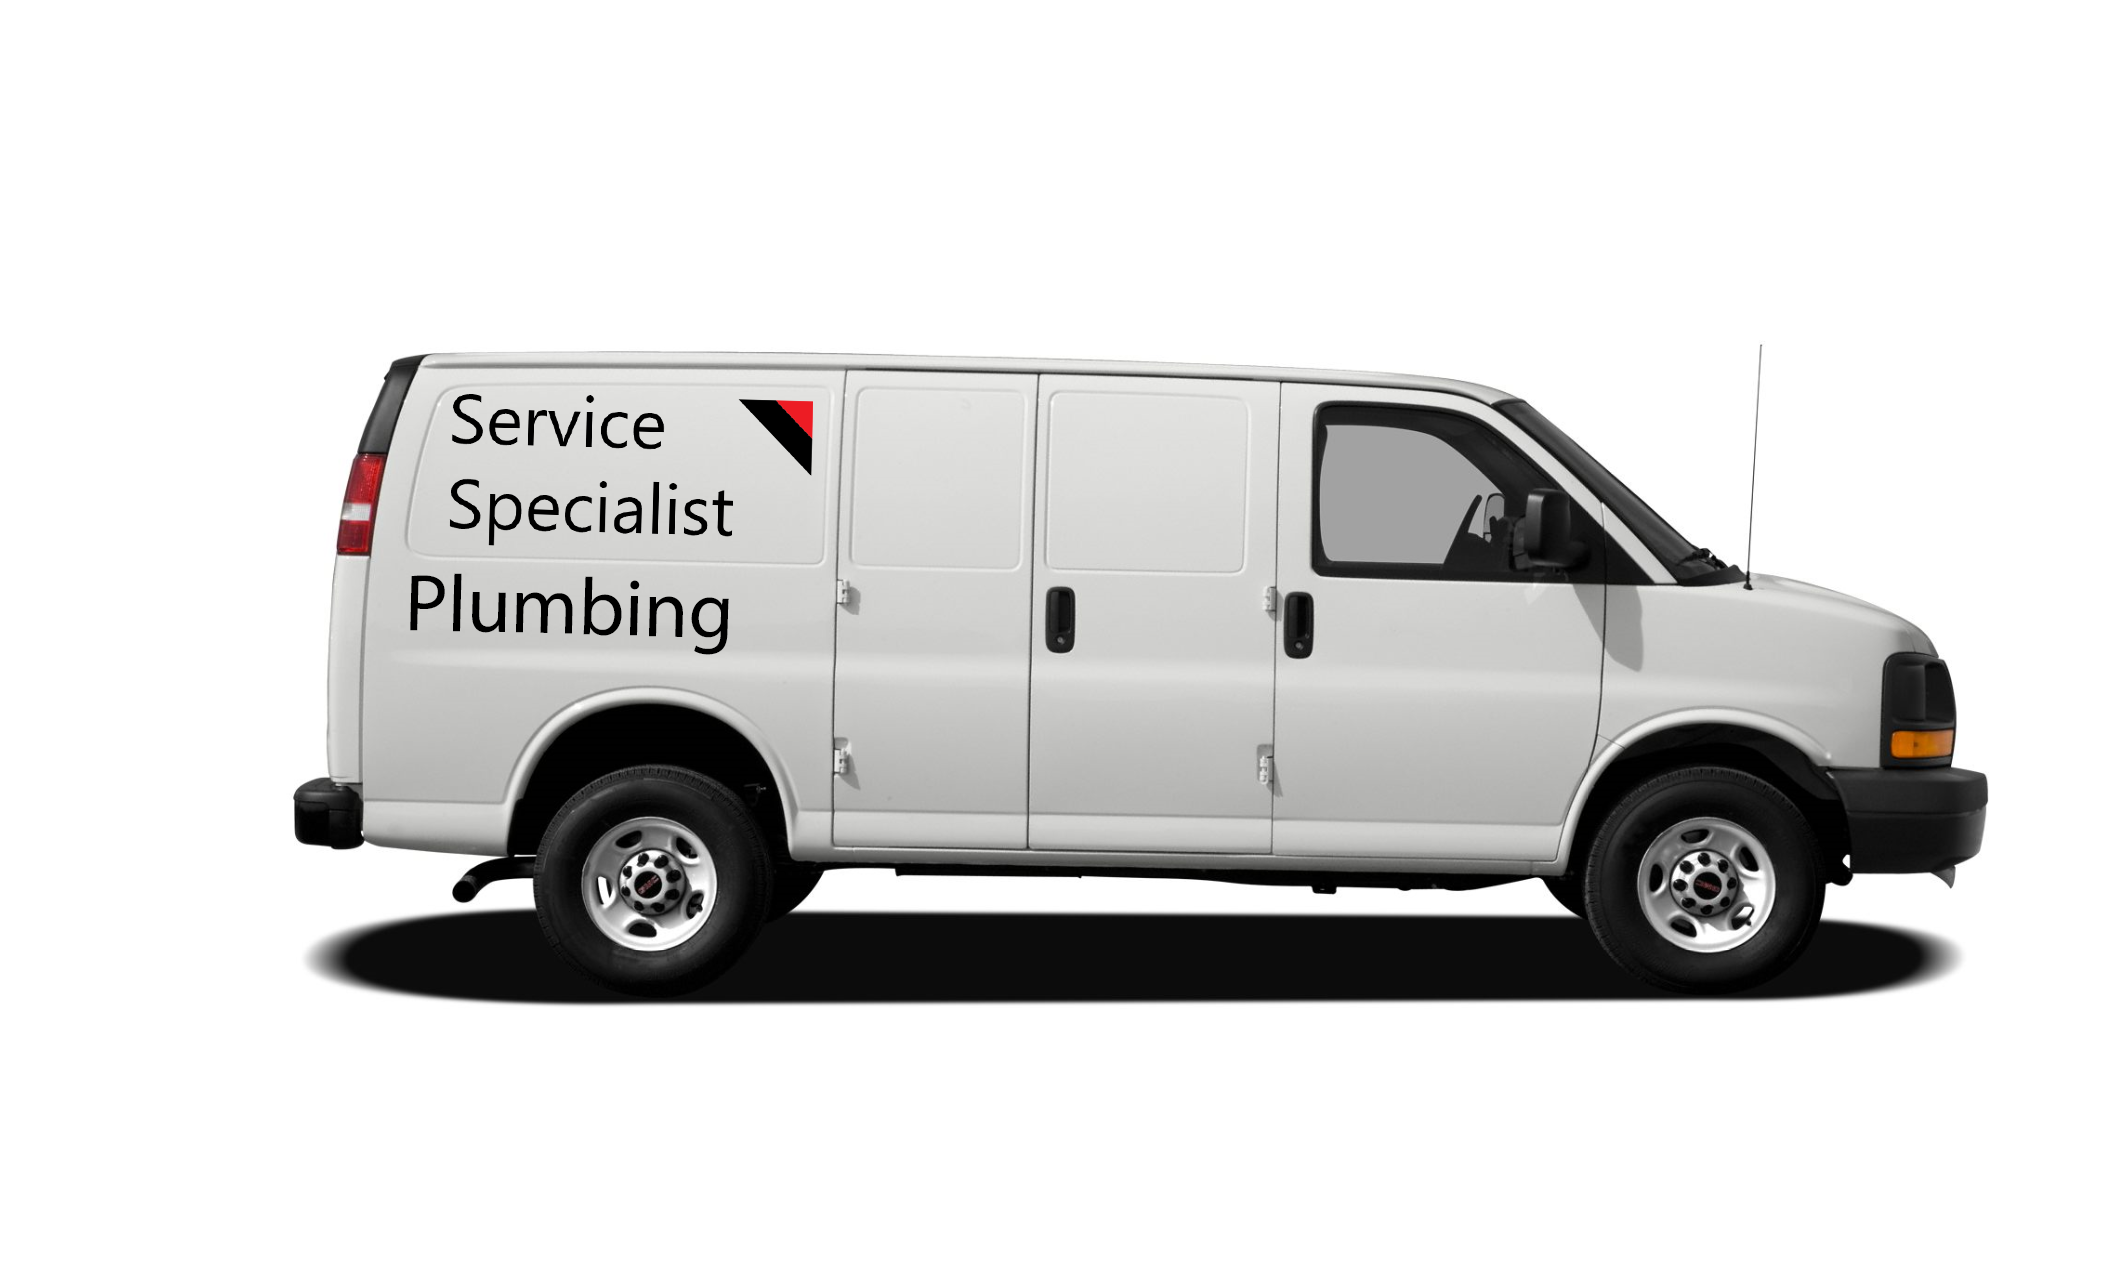
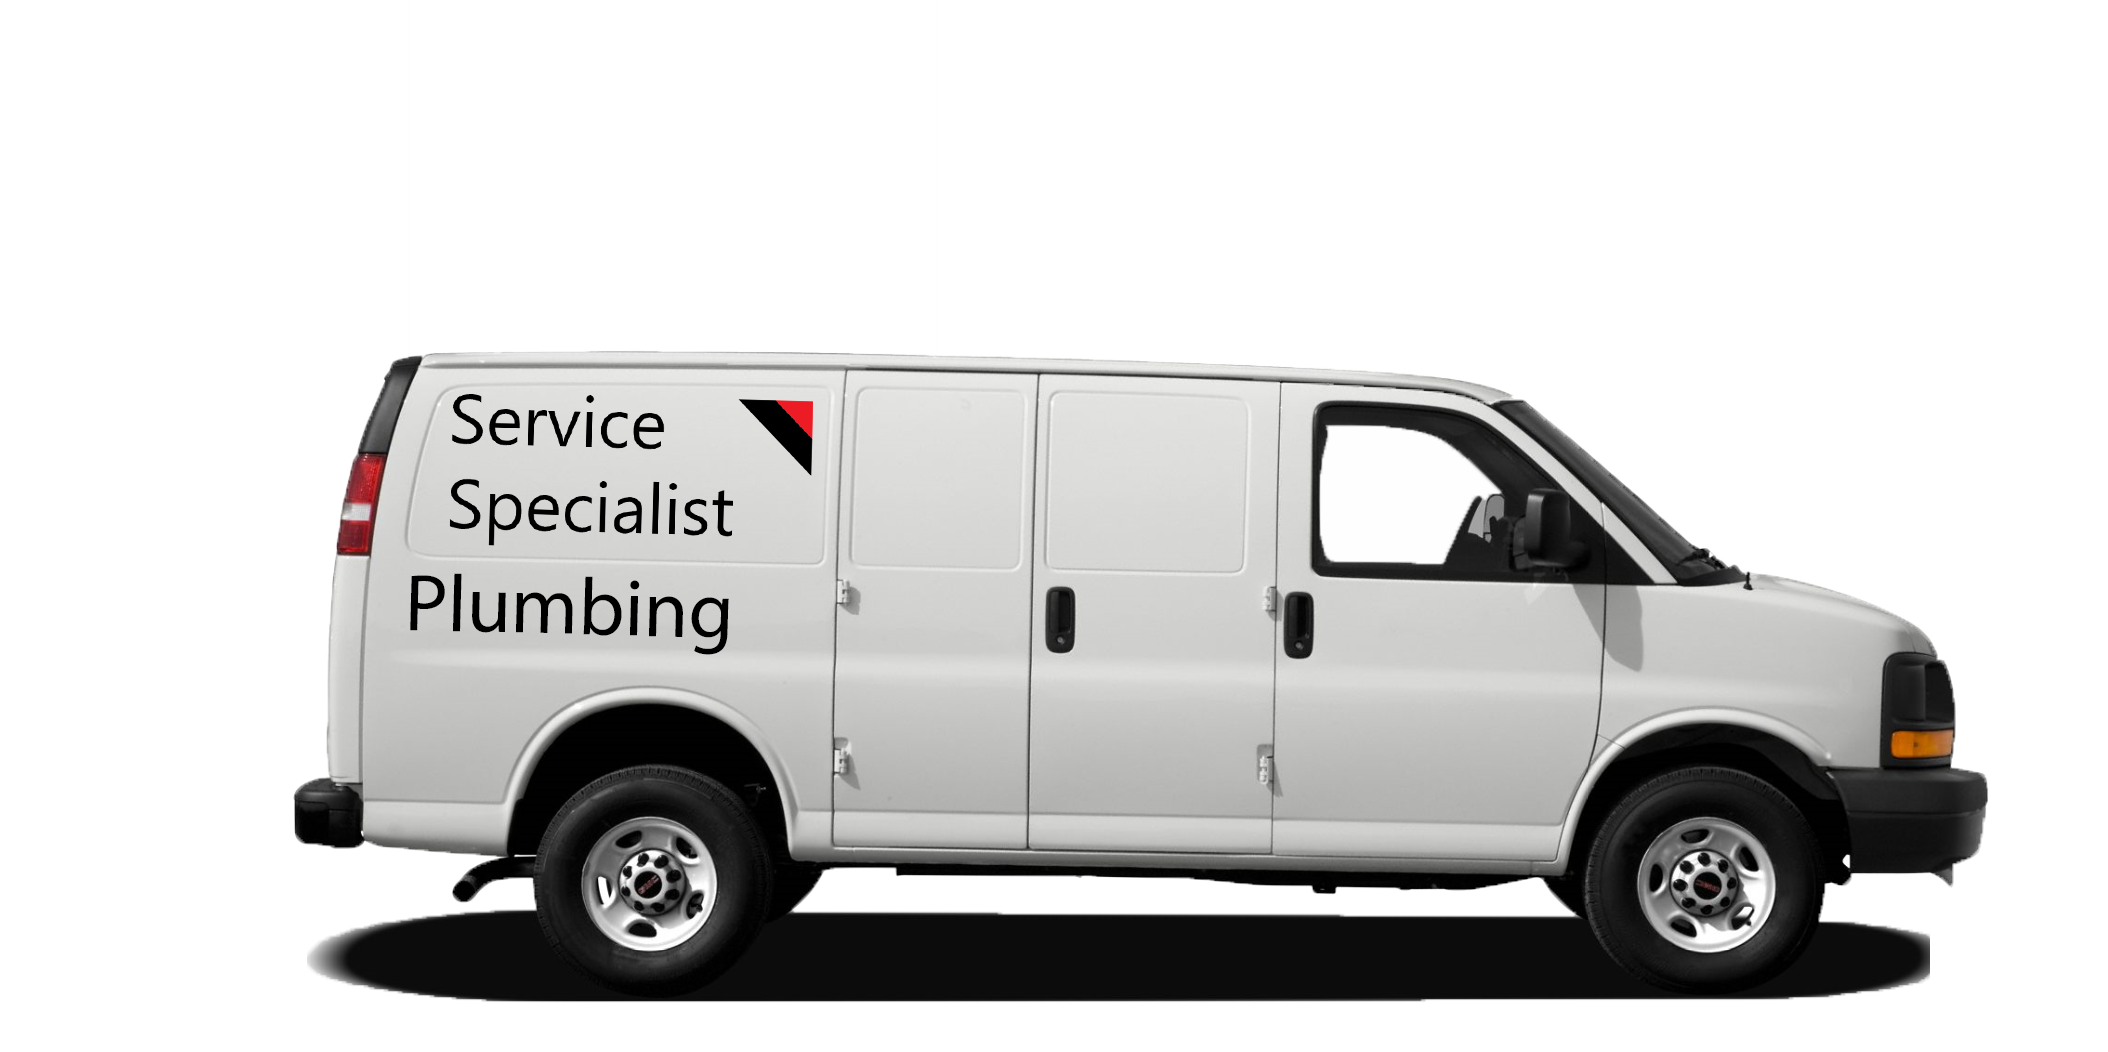
Fixed hero image

diff --git a/css/style.css b/css/style.css
@@ -101,24 +101,26 @@ li a:hover { background-color: #ed1c24; }
     display: grid;
     grid-template-columns: 50% 50%;
     background-color: #fff;
-    /* background-image: url('../images/house2.jpg');
+    background-image: url('../images/house2.jpg');
     background-repeat: no-repeat;
-    background-size: contain;
+    background-size: cover;
+    background-position: right;
     height: 400px;
-    align-self: flex-end; */
     /* Don't know how to to implement this picture yet.... work in progress... */
 }
 
 #hero #heroPic {
     grid-column: 2;
+    grid-row: 2;
     background-image: url("../images/vanhero.png");
     background-repeat: no-repeat;
     background-size: 500px;
     height: 300px;
-    margin-top: 80px;
-    margin-bottom: 80px;
     margin-left: 5px;
     margin-right: 5px;
+    margin-top: 40px;
+    margin-bottom: 50px;
+    align-self: end;
 }
 
 #hero p {
@@ -127,7 +129,9 @@ li a:hover { background-color: #ed1c24; }
     padding-right: 20px;
     align-self: center;
     justify-self: center;
-    color: #000;
+    color: white;
+    text-shadow: -1px 0 black, 0 1px black, 1px 0 black, 0 -1px black;
+    border-width: 1px;
     font-family: plexmedi;
     font-size: 40px;
 }
